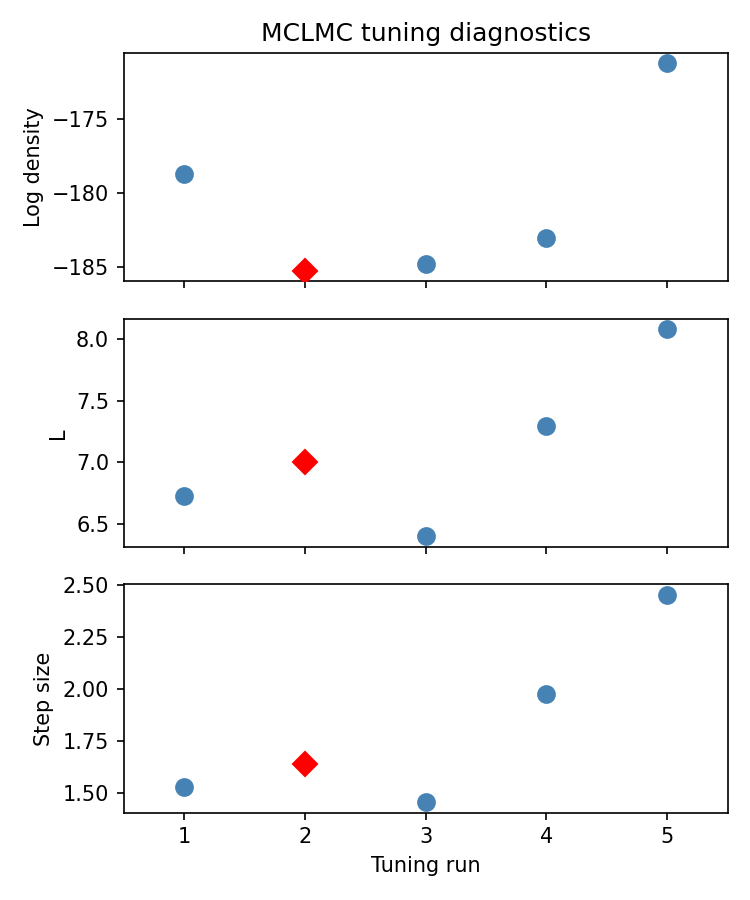
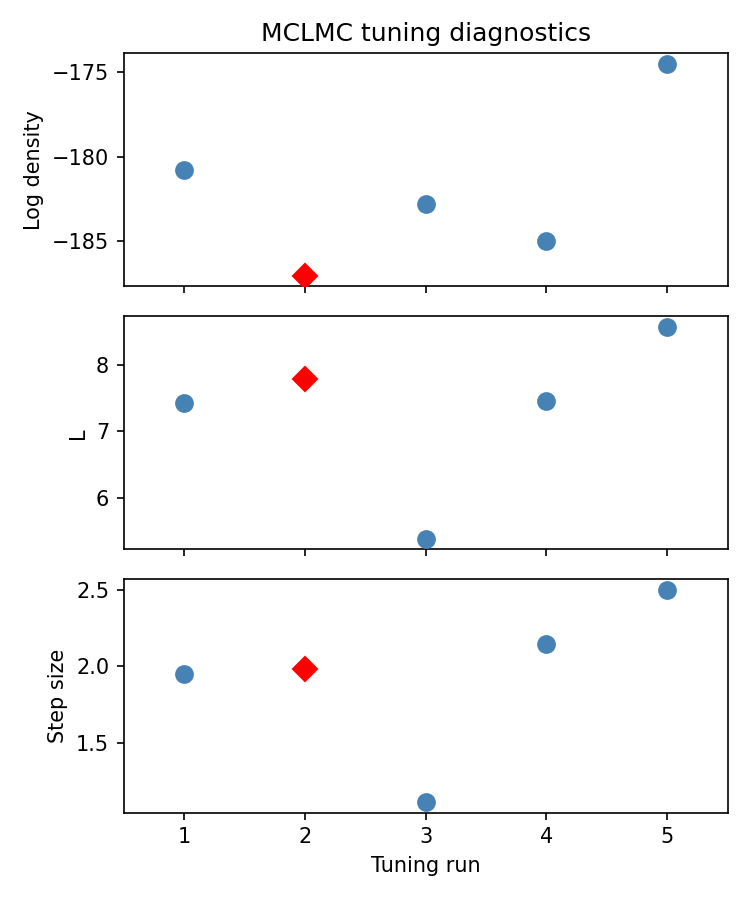
Extend stage 2 readjustment from num_steps2//3 to num_steps2
The BlackJAX default of num_steps2//3 (16 steps) was insufficient
for step_size to converge after the preconditioner spike. With
num_steps2 (50 steps), the middle three runs now converge to
step sizes of 1.95--2.15 instead of 1.45--2.45.

diff --git a/hsnpyr.py b/hsnpyr.py
@@ -234,7 +234,7 @@ def _mclmc_find_L_and_step_size_with_trace(
     part1_key, part2_key = jax.random.split(rng_key, 2)
     num_steps1 = round(num_steps * frac_tune1)
     num_steps2 = round(num_steps * frac_tune2)
-    num_steps2_extra = (num_steps2 // 3) if diagonal_preconditioning else 0
+    num_steps2_extra = num_steps2 if diagonal_preconditioning else 0
     num_steps3 = round(num_steps * frac_tune3)
 
     decay_rate = (num_effective_samples - 1.0) / (num_effective_samples + 1.0)

diff --git a/README.md b/README.md
@@ -291,12 +291,12 @@ out_mclmc = hs.run_analysis(
 MCLMC produces posterior estimates consistent with NUTS:
 
 ```
-  run 1: L=6.724, step_size=1.5275, logdensity=-178.70 [OK]
-  run 2: L=7.004, step_size=1.6372, logdensity=-185.26 [OK]
-  run 3: L=6.399, step_size=1.4553, logdensity=-184.80 [OK]
-  run 4: L=7.298, step_size=1.9752, logdensity=-183.06 [OK]
-  run 5: L=8.081, step_size=2.4526, logdensity=-171.20 [OK]
-MCLMC: selected run 2 — L=7.004, step_size=1.6372
+  run 1: L=7.427, step_size=1.9500, logdensity=-180.78 [OK]
+  run 2: L=7.783, step_size=1.9849, logdensity=-187.05 [OK]
+  run 3: L=5.386, step_size=1.1200, logdensity=-182.80 [OK]
+  run 4: L=7.457, step_size=2.1460, logdensity=-184.99 [OK]
+  run 5: L=8.568, step_size=2.4978, logdensity=-174.48 [OK]
+MCLMC: selected run 2 — L=7.783, step_size=1.9849
 ```
 
 #### MCLMC tuning diagnostics
@@ -331,23 +331,23 @@ lines:
    variance shows frequent spikes as the integrator explores the
    unconditioned geometry.
 
-2. **Stage 2** (iterations 50--116): the diagonal preconditioner
+2. **Stage 2** (iterations 50--150): the diagonal preconditioner
    (mass matrix) is computed from the position variances accumulated
    in stage 1, and the step size is readjusted.  A sharp spike in
    step_size appears around iteration 100 when the new preconditioner
-   suddenly changes the effective geometry.  The readjustment
-   sub-stage (between the two dashed lines) brings the step size back
-   to a stable value, but the spike means the final step size depends
-   sensitively on how far the readjustment progresses.
+   suddenly changes the effective geometry.  We use a longer
+   readjustment sub-stage than the BlackJAX default (`num_steps2`
+   iterations instead of `num_steps2 // 3`), which gives the step
+   size enough iterations to converge to a stable plateau before
+   stage 3 begins.
 
-3. **Stage 3** (iterations 116 onwards): step size is fixed, and L
+3. **Stage 3** (iterations 150 onwards): step size is fixed, and L
    (trajectory length) is set from the effective sample size of a
-   short sampling run.  Energy variance is generally lower in this
-   stage.
+   short sampling run.
 
 **L (trajectory length)** stays constant at sqrt(dim) = 8.0 throughout
 stages 1--2.  Only after stage 3 does L change to its ESS-based value
-(6.4--8.1 across runs).
+(5.4--8.6 across runs).
 
 **energy_change^2** (the energy variance proxy) is spiky throughout,
 reflecting the heavy-tailed geometry of the horseshoe posterior.  The
@@ -355,11 +355,10 @@ target energy variance is `dim * desired_energy_var` = 64 * 5e-4 =
 0.032.  The y-axis is cropped to twice the 95th percentile to make the
 overall trend visible despite large spikes.
 
-The variation in final step sizes (1.45--2.45) across the 5 runs arises
-mainly from the stage 2 preconditioner spike: different random seeds
-produce different spike heights, and the limited readjustment sub-stage
-does not always fully converge.  The median selection strategy mitigates
-this by discarding outlier runs.
+With the longer readjustment, the middle three runs converge to step
+sizes of 1.95, 1.98, and 2.15 -- much tighter than the 1.45--2.45
+spread with the BlackJAX default of `num_steps2 // 3`.  Run 3 remains
+an outlier (step_size=1.12) but the median selection discards it.
 
 ## API
 
